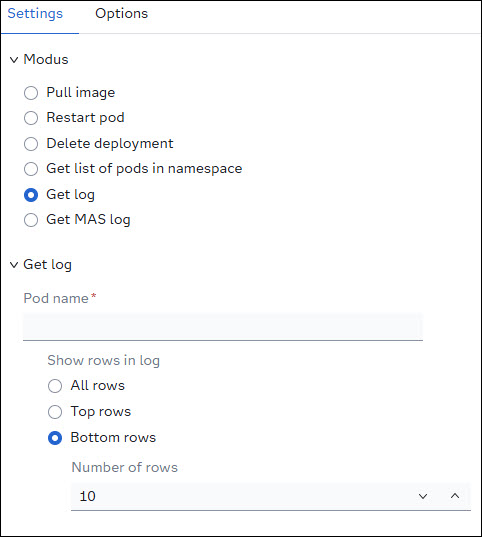
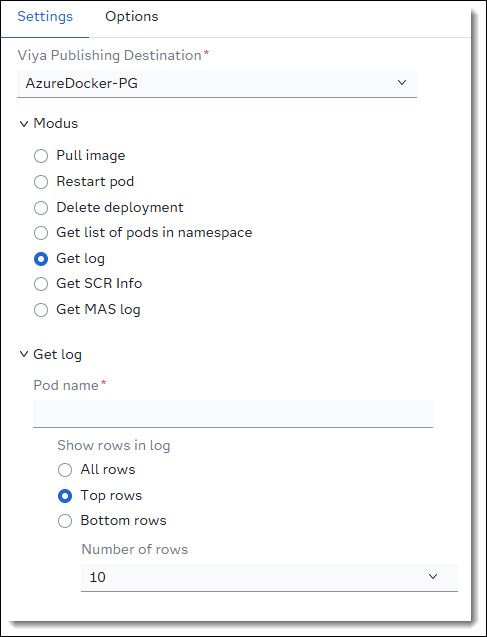
init

diff --git a/README.md b/README.md
@@ -11,6 +11,7 @@ Once deployed, the `k8s-scr-mgr` container provides a service accessible via cus
 🔷 **Delete** SCR container deployments<br>
 🔷 **List** all pods running in the dedicated Kubernetes namespace<br>
 🔷 **Show** log for SCR container<br>
+🔷 **Show** SCR Kubernetes deployment information<br>
 🔷 **Show MAS** log for information<br>
 
 > ⚠ For security reasons, all SCR containers are loaded into **dedicated namespaces**. The default namespace is *scr*. You can overwrite the default namespace when installing *k8s-scr-mgr*.
@@ -104,6 +105,7 @@ The **ID - K8S SCR Manager** custom step allows you to interact with the k8s-scr
 🔷 **Delete** SCR container deployments<br>
 🔷 **List** all pods running in the dedicated Kubernetes namespace<br>
 🔷 **Show** log for SCR container<br>
+🔷 **Show** SCR Kubernetes deployment information<br>
 🔷 **Show MAS** log for information<br>
 
 ---
@@ -137,10 +139,12 @@ Use this section to choose the operation you want to perform:
     Remove an SCR deployment from Kubernetes.
 * **Get list of pods in namespace**<br>
     Retrieve a list of pods in the *scr-pull* namespace, including status and age information.
+* **Get SCR Info**<br>
+    Retrieve SCR deployment information including currently set environment variables.
 * **Get log**<br>
-    Retrive the log for a container in the dedicated namespace.
+    Retrieve the log for a container in the dedicated namespace.
 * **Get MAS log**<br>
-    Retrive the log information from MAS.
+    Retrieve the log information from MAS.
 
 ---
 
@@ -153,13 +157,6 @@ Load a SCR image from the Docker registry into Kubernetes.
 The name of the SCR container image in the Docker registry
 * **Container Image Tag**<br>
 The tag name of the image you want to load. E.g.: latest or 6
-* **Owner**<br>
-Set a Kubernetes lable for the owner of the scr image. Information who to contact by question about the image. 
-    * Max 63 characters.
-    * Lowercase / uppercase letters: A–Z a–z
-    * Numbers: 0–9
-    * Special characters: - _ .
-    * Start and end with an alphanumeric character.
 * **Image Pull Policy**,br
 Set how the image should get pulled if the pod gets restarted.<br>
 Options:
@@ -169,6 +166,17 @@ Options:
     The Kubelet will only pull the image if it is not already present on the node. If a local copy exists, it will be used without checking the registry for updates
     * Never<br>
     It will only use a locally available image. If the image is not found locally, the container launch will fail. This policy is typically used for development or air-gapped environments where images are pre-loaded onto nodes
+* **Replicas**<br>
+Set the number of pods to start. 
+* **Owner**<br>
+Set a Kubernetes lable for the owner of the scr image. Information who to contact about the image. 
+    * Max 63 characters.
+    * Lowercase / uppercase letters: A–Z a–z
+    * Numbers: 0–9
+    * Special characters: - _ .
+    * Start and end with an alphanumeric character.
+
+    >❗**Note**: If not set the SAS Studio Client ID will be used.
 * **Pull Options**
     * **Deployment Name**<br>
         By default the SCR image name is used as deployment name. You can set a different deployment name, for example if you want to load different versions of the same image.
@@ -233,7 +241,7 @@ Run the step to receive a list of all pods running in the namespace linked to k8
 ![](./images/get-log.jpg)
 
 * **Pod name**<br>
-The name of the pod for wich you want the log information.<br>
+The name of the pod for which you want the log information.<br>
 You don't need to type in the complete pod name, portion of it will work. E.g.: if the pod name is 'scr-mypod-7b7c55d84b-2fm87' you can just type 'mypod'.
 
 * **Show rows in log**
@@ -244,6 +252,29 @@ This indicates how many rows from the log will be shown.
     Show the top number of rows as set in field **Number of rows**
     * Bottom rows<br>
     Show last number of rows as set in field **Number of rows**
+
+---
+
+#### Get SCR Info
+![](./images/get-scr-info.jpg)
+
+* **Deployment name**<br>
+The name of the deployment for which you want retieve information.<br>
+Following information will be shown:
+    * Deployment Name
+    * Namespace
+    * App-Owner
+    * SCR Image Name
+    * SCR Image Tag
+    * Container Registry
+    * Image Pull Policy
+    * Replicas
+    * Internal SCR URL
+    * External SCR URL
+    * List of currently set environment variables
+    * List of SCR Loggers currently set
+
+---
 
 #### Get MAS log
 ![](./images/get-MAS-log.jpg)

diff --git a/manual-install.md b/manual-install.md
@@ -35,7 +35,8 @@ Download file [k8s-scr-mgr.config](./data/config/k8s-scr-mgr.config) and edit it
 | RESTART_SCR | Enables the /restart-scr endpoint to restart pods.<br>***Default:*** True |
 | DELETE_SCR | Enables the /delete-scr endpoint to delete pods and deployments.<br>***Default:*** True |
 | GETLOG_SCR | Enables the /getlog-scr endpoint to receive the log for a scr container.<br>***Default:*** True |
-| GETLO G_MAS | Enables the /getlog-mas endpoint to receive the log for MAS.<br>***Default:*** True |
+| GET_INFO_SCR | Enables the /getinfo-scr endpoint to receive scr deployment information.<br>***Default:*** True |
+| GETLOG_MAS | Enables the /getlog-mas endpoint to receive the log for MAS.<br>***Default:*** True |
 | PUBLISHING_DESTINATIONS | Maping for Viya publishing destination. See [k8s-scr-mgr.config](./data/config/k8s-scr-mgr.config) for details. |
 
 Copy the following file into directory ```~/k8s-scr-mgr```
